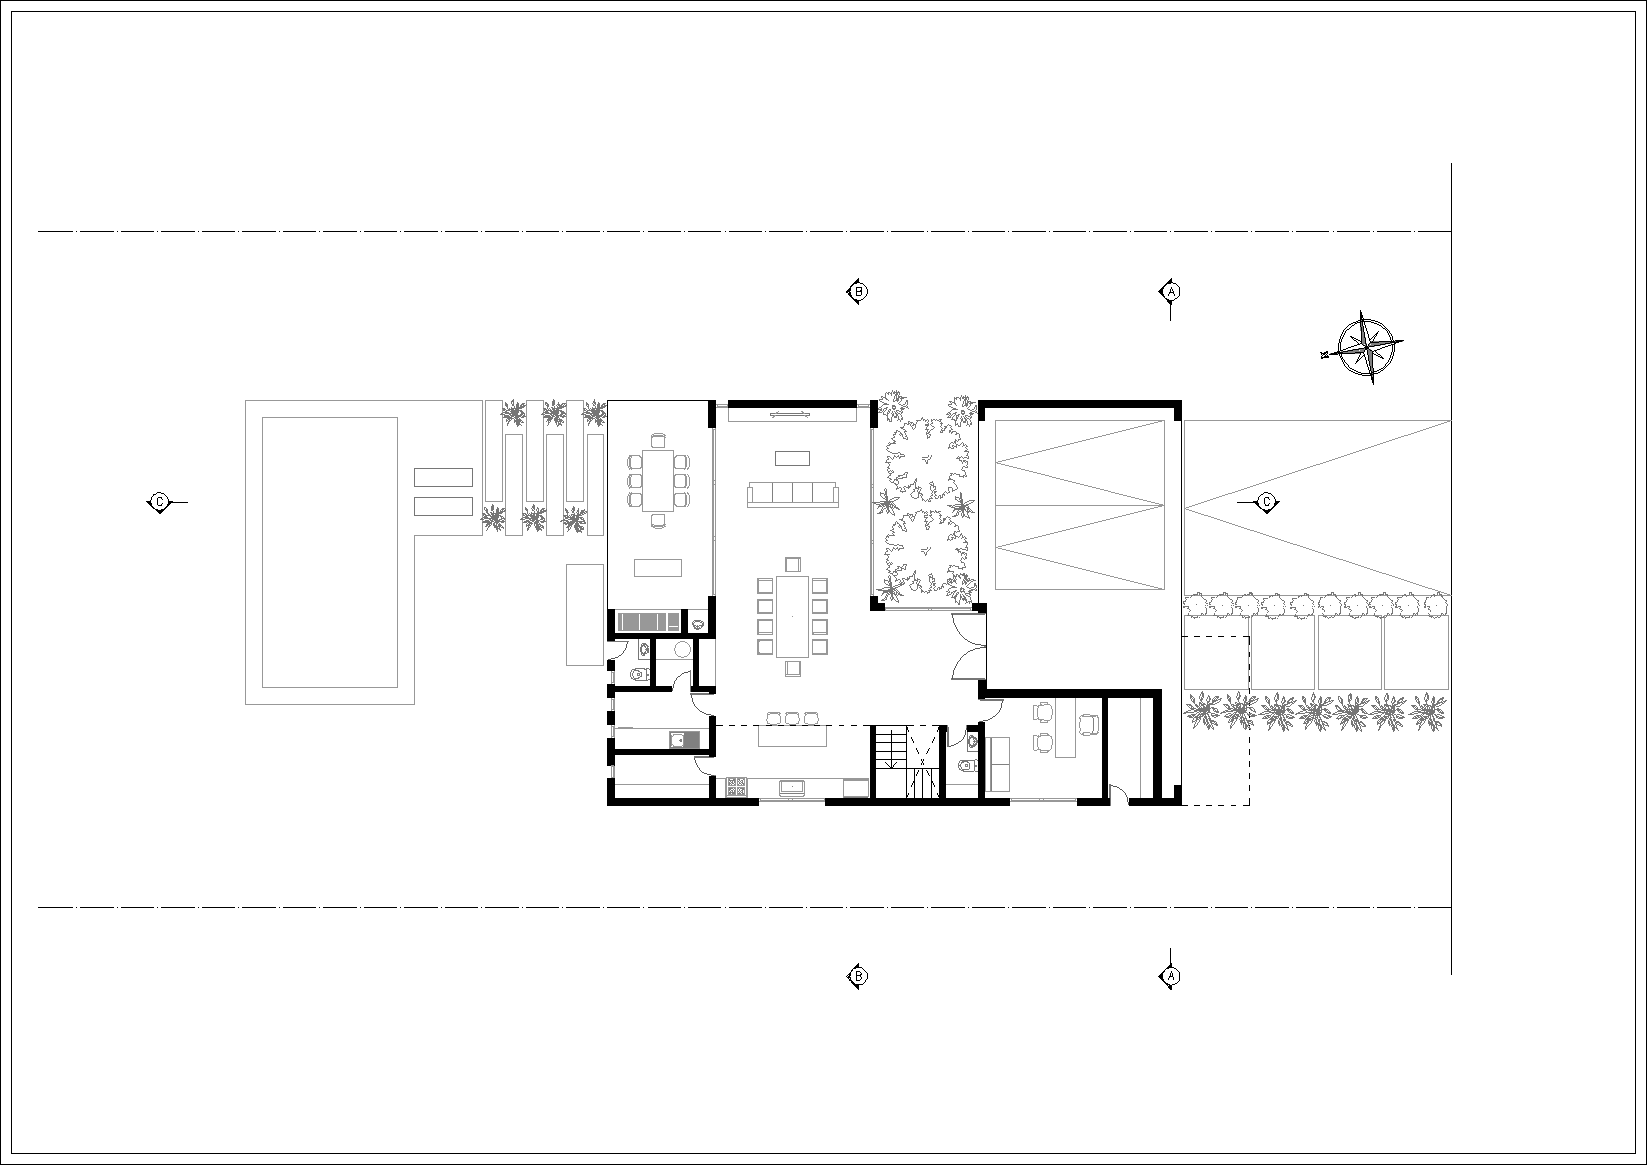
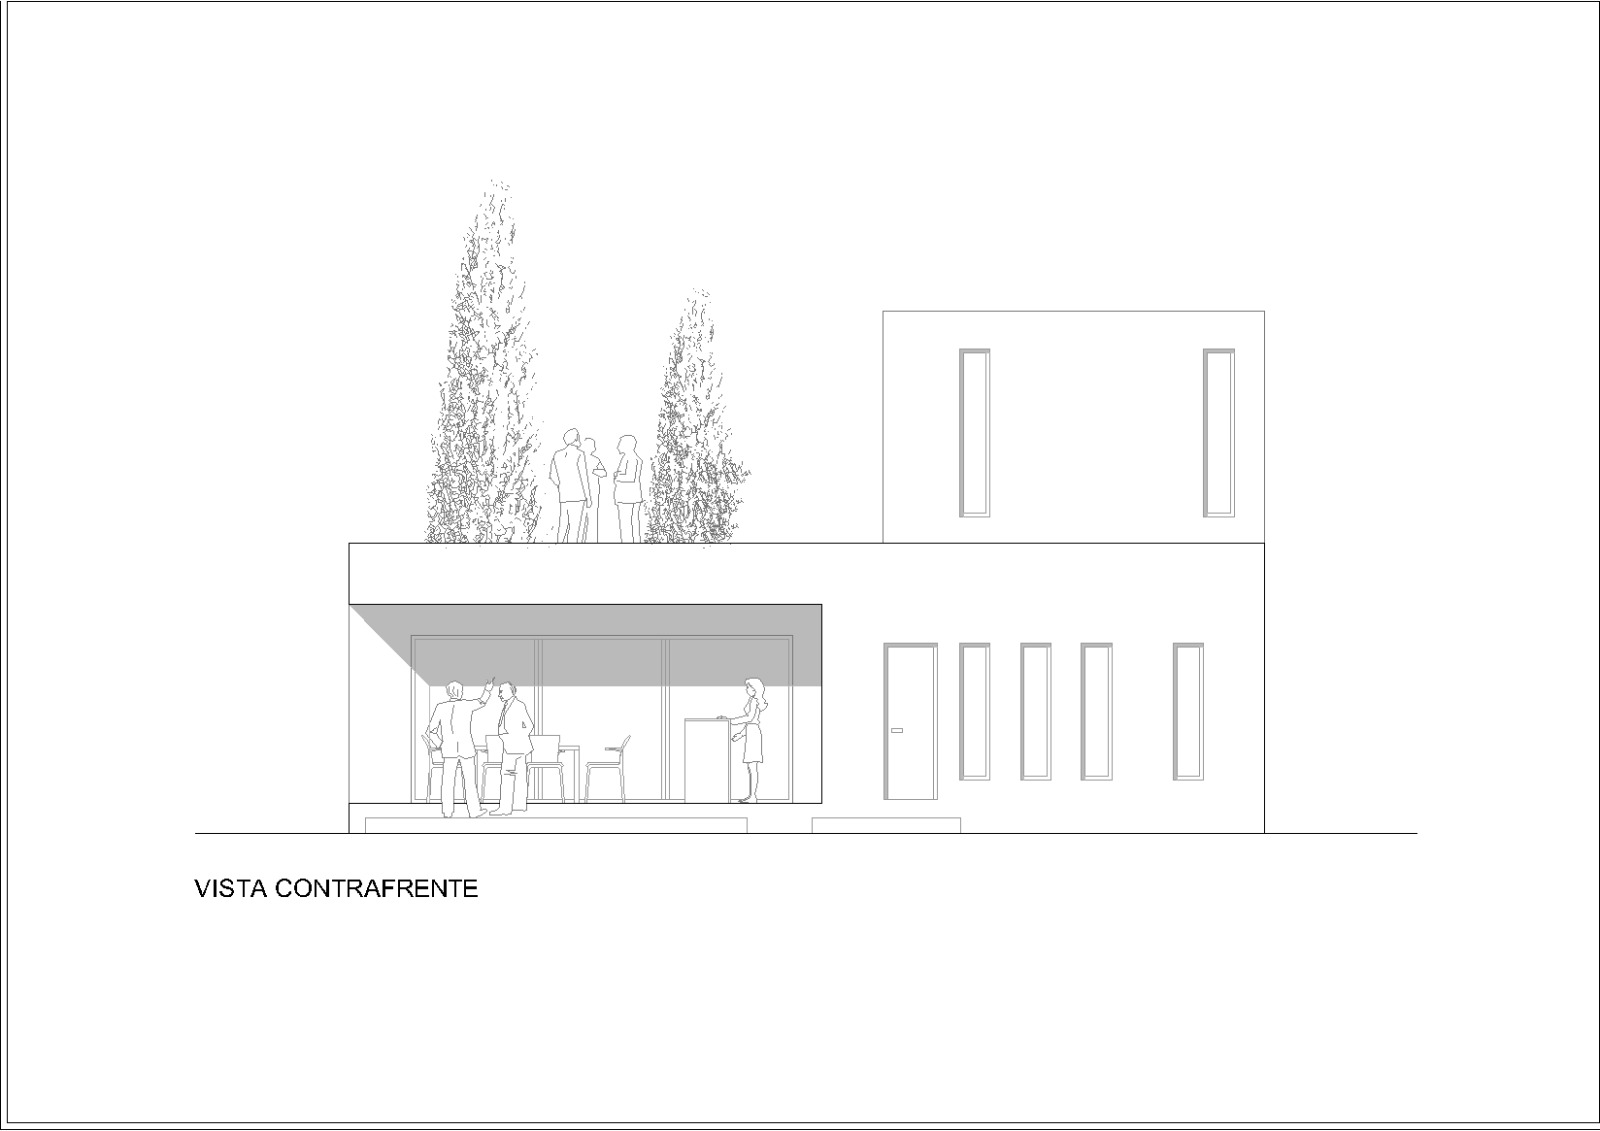
se agrego logica de siguiente y anterior en planos e imagenes del modal, cambio de orden en planos

diff --git a/src/components/Projects.tsx b/src/components/Projects.tsx
@@ -193,6 +193,52 @@ import motoqueroInteriorTaller from "@/assets/Proyectos/Motoquero/Motoquero-Inte
 import motoqueroInteriorTaller2 from "@/assets/Proyectos/Motoquero/Motoquero-Interior_Taller2.png";
 import motoqueroInteriorTaller3 from "@/assets/Proyectos/Motoquero/Motoquero-Interior_Taller3.png";
 import motoqueroInteriorTienda from "@/assets/Proyectos/Motoquero/Motoquero-Interior_Tienda de respuestos.png";
+import carlaPlantaBaja from "@/assets/Planos/Carla/Proyecto Carla-PlantaBaja.png";
+import carlaEntrepiso from "@/assets/Planos/Carla/Proyecto Carla-EntrePiso.png";
+import carlaCorteAA from "@/assets/Planos/Carla/Proyecto Carla-Corte A-A.png";
+import carlaCorteBB from "@/assets/Planos/Carla/Proyecto Carla-Corte B-B.png";
+import carlaVistaFrente from "@/assets/Planos/Carla/Proyecto Carla-Vista Frente.png";
+import carlaVistaContrafrente from "@/assets/Planos/Carla/Proyecto Carla-Vista Contrafrente.png";
+import coffeePlantaBaja from "@/assets/Planos/Coffee/Casa Coffee-Arq_PlantaBaja.png";
+import coffeePlantaAlta from "@/assets/Planos/Coffee/Casa Coffee-Arq_PlantaAlta.png";
+import coffeeCorteAA from "@/assets/Planos/Coffee/Casa Coffee-Corte A-A.png";
+import coffeeCorteBB from "@/assets/Planos/Coffee/Casa Coffee-Corte B-B.png";
+import coffeeVistaFrente from "@/assets/Planos/Coffee/Casa Coffee-Vista Frente.png";
+import coffeeVistaContrafrente from "@/assets/Planos/Coffee/Casa Coffee-Vista Contrafrente.png";
+import cygPlantaBaja from "@/assets/Planos/CyG/Casa CyG-Arq_PlantaBaja.png";
+import cygPlantaAlta from "@/assets/Planos/CyG/Casa CyG-Arq_PlantaAlta.png";
+import cygCorteAA from "@/assets/Planos/CyG/Casa CyG-Corte A-A.png";
+import cygCorteBB from "@/assets/Planos/CyG/Casa CyG-Corte B-B.png";
+import cygVistaFrente from "@/assets/Planos/CyG/Casa CyG-Vista Frente.png";
+import cygVistaContrafrente from "@/assets/Planos/CyG/Casa CyG-Vista Contrafrente.png";
+import limoneroPlantaBaja from "@/assets/Planos/Del Limonero/Casa del Limonero-Arq_PlantaBaja.png";
+import limoneroCorteAA from "@/assets/Planos/Del Limonero/Casa del Limonero-Corte A-A.png";
+import limoneroCorteBB from "@/assets/Planos/Del Limonero/Casa del Limonero-Corte B-B.png";
+import limoneroVistaFrente from "@/assets/Planos/Del Limonero/Casa del Limonero-Vista Frente.png";
+import limoneroVistaContrafrente from "@/assets/Planos/Del Limonero/Casa del Limonero-Vista Contrafrente.png";
+import intiPlantaBaja from "@/assets/Planos/Inti/Casa Inti-Arq_PlantaBaja.png";
+import intiCorteAA from "@/assets/Planos/Inti/Casa Inti-Corte A-A.png";
+import intiCorteBB from "@/assets/Planos/Inti/Casa Inti-Corte B-B.png";
+import intiVistaFrente from "@/assets/Planos/Inti/Casa Inti-Vista Frente.png";
+import intiVistaContrafrente from "@/assets/Planos/Inti/Casa Inti-Vista Contrafrente.png";
+import jorvalPlantaBaja from "@/assets/Planos/Jorval/Proyecto Jorval-Arq_PlantaBaja.png";
+import jorvalPlantaAlta from "@/assets/Planos/Jorval/Proyecto Jorval-Arq_PlantaAlta.png";
+import jorvalCorteAA from "@/assets/Planos/Jorval/Proyecto Jorval-Corte A-A.png";
+import jorvalCorteBB from "@/assets/Planos/Jorval/Proyecto Jorval-Corte B-B.png";
+import jorvalVistaFrente from "@/assets/Planos/Jorval/Proyecto Jorval-Vista Frente.png";
+import jorvalVistaLateral from "@/assets/Planos/Jorval/Proyecto Jorval - Vista Lateral.png";
+import scottPlantaBaja from "@/assets/Planos/Scott/Casa Scott-Arq_PlantaBaja.png";
+import scottPlantaAlta from "@/assets/Planos/Scott/Casa Scott-Arq_PlantaAlta.png";
+import scottCorteAA from "@/assets/Planos/Scott/Casa Scott- Corte A-A.png";
+import scottCorteBB from "@/assets/Planos/Scott/Casa Scott- Corte B-B.png";
+import scottVistaFrente from "@/assets/Planos/Scott/Casa Scott-Vista Frente.png";
+import scottVistaContrafrente from "@/assets/Planos/Scott/Casa Scott-Vista Contrafrente.png";
+import zPlantaBaja from "@/assets/Planos/Z/Proyecto Z-PlantaBaja.png";
+import zPlantaAlta from "@/assets/Planos/Z/Proyecto Z-PlantaAlta.png";
+import zCorteAA from "@/assets/Planos/Z/Proyecto Z-Corte A-A.png";
+import zCorteBB from "@/assets/Planos/Z/Proyecto Z-Corte B-B.png";
+import zVistaFrente from "@/assets/Planos/Z/Proyecto Z-Vista Frente.png";
+import zVistaContrafrente from "@/assets/Planos/Z/Proyecto Z-Vista Contrafrente.png";
 import { useTranslation } from "@/lib/i18n";
 import { casaProjects } from "@/components/project-data";
 
@@ -1247,27 +1293,73 @@ function ProjectModal({
   const [showPlans, setShowPlans] = useState(false);
   const [expandedPlanIndex, setExpandedPlanIndex] = useState<number | null>(null);
   const isPhaseFilterProject = project.id === "casa-pili" || project.id === "casa-bonzi";
-  const planImageModules = import.meta.glob("../assets/Planos/*/*.{png,jpg,jpeg}", {
-    eager: true,
-    import: "default",
-  }) as Record<string, string>;
-  const projectPlanFolderById: Record<string, string> = {
-    "proyecto-cyg": "CyG",
-    "proyecto-carla": "Carla",
-    "casa-coffee": "Coffee",
-    "casa-del-limonero": "Del Limonero",
-    "casa-inti": "Inti",
-    "proyecto-jorval": "Jorval",
-    "casa-scott": "Scott",
-    "proyecto-z": "Z",
+  const planImagesByProjectId: Record<string, string[]> = {
+    "proyecto-cyg": [
+      cygPlantaBaja,
+      cygPlantaAlta,
+      cygCorteAA,
+      cygCorteBB,
+      cygVistaFrente,
+      cygVistaContrafrente,
+    ],
+    "proyecto-carla": [
+      carlaPlantaBaja,
+      carlaEntrepiso,
+      carlaCorteAA,
+      carlaCorteBB,
+      carlaVistaFrente,
+      carlaVistaContrafrente,
+    ],
+    "casa-coffee": [
+      coffeePlantaBaja,
+      coffeePlantaAlta,
+      coffeeCorteAA,
+      coffeeCorteBB,
+      coffeeVistaFrente,
+      coffeeVistaContrafrente,
+    ],
+    "casa-del-limonero": [
+      limoneroPlantaBaja,
+      limoneroCorteAA,
+      limoneroCorteBB,
+      limoneroVistaFrente,
+      limoneroVistaContrafrente,
+    ],
+    "casa-inti": [
+      intiPlantaBaja,
+      intiCorteAA,
+      intiCorteBB,
+      intiVistaFrente,
+      intiVistaContrafrente,
+    ],
+    "proyecto-jorval": [
+      jorvalPlantaBaja,
+      jorvalPlantaAlta,
+      jorvalCorteAA,
+      jorvalCorteBB,
+      jorvalVistaFrente,
+      jorvalVistaLateral,
+    ],
+    "casa-scott": [
+      scottPlantaBaja,
+      scottPlantaAlta,
+      scottCorteAA,
+      scottCorteBB,
+      scottVistaFrente,
+      scottVistaContrafrente,
+    ],
+    "proyecto-z": [
+      zPlantaBaja,
+      zPlantaAlta,
+      zCorteAA,
+      zCorteBB,
+      zVistaFrente,
+      zVistaContrafrente,
+    ],
   };
-  const planImages = Object.entries(planImageModules)
-    .filter(([path]) => {
-      const folderName = projectPlanFolderById[project.id];
-      return folderName ? path.includes(`/Planos/${folderName}/`) : false;
-    })
-    .map(([, src]) => src);
-  const hasPlanImages = planImages.length > 0;
+
+  const orderedPlanImages = planImagesByProjectId[project.id] ?? [];
+  const hasPlanImages = orderedPlanImages.length > 0;
   const atmosphereButtons: Array<{ key: AtmosphereType; label: string }> = [
     { key: "todos", label: t.projects.atmospheres.todos },
     { key: "anochecer", label: t.projects.atmospheres.anochecer },
@@ -3094,8 +3186,10 @@ function ProjectModal({
   if (!activeItem) return null;
 
   if (expandedPlanIndex !== null) {
-    const expandedPlan = planImages[expandedPlanIndex];
+    const expandedPlan = orderedPlanImages[expandedPlanIndex];
     if (!expandedPlan) return null;
+    const hasPreviousPlan = expandedPlanIndex > 0;
+    const hasNextPlan = expandedPlanIndex < orderedPlanImages.length - 1;
     return (
       <div
         className="fixed inset-0 z-110 bg-brand-black/95 backdrop-blur-sm flex items-center justify-center p-4 md:p-12"
@@ -3113,6 +3207,28 @@ function ProjectModal({
           >
             {t.projects.modal.close}
           </button>
+          <div className="absolute inset-x-0 bottom-4 z-10 flex items-center justify-between px-4 md:px-6">
+            <button
+              type="button"
+              onClick={() => setExpandedPlanIndex((prev) => (prev !== null ? Math.max(0, prev - 1) : 0))}
+              disabled={!hasPreviousPlan}
+              aria-label={t.projects.pagination.previous}
+              className="inline-flex items-center justify-center h-11 min-w-11 rounded-none border border-white bg-white/90 px-3 text-[10px] uppercase tracking-[0.3em] text-brand-black transition hover:bg-white disabled:cursor-not-allowed disabled:opacity-50"
+            >
+              <ChevronLeft className="mr-1 h-4 w-4" />
+              {t.projects.pagination.previous}
+            </button>
+            <button
+              type="button"
+              onClick={() => setExpandedPlanIndex((prev) => (prev !== null ? Math.min(orderedPlanImages.length - 1, prev + 1) : 0))}
+              disabled={!hasNextPlan}
+              aria-label={t.projects.pagination.next}
+              className="inline-flex items-center justify-center h-11 min-w-11 rounded-none border border-white bg-white/90 px-3 text-[10px] uppercase tracking-[0.3em] text-brand-black transition hover:bg-white disabled:cursor-not-allowed disabled:opacity-50"
+            >
+              {t.projects.pagination.next}
+              <ChevronRight className="ml-1 h-4 w-4" />
+            </button>
+          </div>
           <img
             src={expandedPlan}
             alt={t.projects.modal.close}
@@ -3127,6 +3243,8 @@ function ProjectModal({
   if (expandedImageIndex !== null) {
     const expandedItem = reorderedGalleryItems[expandedImageIndex];
     if (!expandedItem) return null;
+    const hasPreviousExpandedImage = expandedImageIndex > 0;
+    const hasNextExpandedImage = expandedImageIndex < reorderedGalleryItems.length - 1;
     return (
       <div
         className="fixed inset-0 z-90 bg-brand-black/95 backdrop-blur-sm flex items-center justify-center p-4 md:p-12"
@@ -3144,6 +3262,28 @@ function ProjectModal({
           >
             {t.projects.modal.close}
           </button>
+          <div className="absolute inset-x-0 bottom-4 z-10 flex items-center justify-between px-4 md:px-6">
+            <button
+              type="button"
+              onClick={() => setExpandedImageIndex((prev) => (prev !== null ? Math.max(0, prev - 1) : 0))}
+              disabled={!hasPreviousExpandedImage}
+              aria-label={t.projects.pagination.previous}
+              className="inline-flex items-center justify-center h-11 min-w-11 rounded-none border border-white bg-white/90 px-3 text-[10px] uppercase tracking-[0.3em] text-brand-black transition hover:bg-white disabled:cursor-not-allowed disabled:opacity-50"
+            >
+              <ChevronLeft className="mr-1 h-4 w-4" />
+              {t.projects.pagination.previous}
+            </button>
+            <button
+              type="button"
+              onClick={() => setExpandedImageIndex((prev) => (prev !== null ? Math.min(reorderedGalleryItems.length - 1, prev + 1) : 0))}
+              disabled={!hasNextExpandedImage}
+              aria-label={t.projects.pagination.next}
+              className="inline-flex items-center justify-center h-11 min-w-11 rounded-none border border-white bg-white/90 px-3 text-[10px] uppercase tracking-[0.3em] text-brand-black transition hover:bg-white disabled:cursor-not-allowed disabled:opacity-50"
+            >
+              {t.projects.pagination.next}
+              <ChevronRight className="ml-1 h-4 w-4" />
+            </button>
+          </div>
           <img
             src={expandedItem.src}
             alt={expandedItem.label[language]}
@@ -3308,7 +3448,7 @@ function ProjectModal({
               <div className="mt-6">
                 {hasPlanImages ? (
                   <div className="grid gap-4 sm:grid-cols-2">
-                    {planImages.map((planSrc, index) => (
+                    {orderedPlanImages.map((planSrc, index) => (
                       <button
                         key={`${planSrc}-${index}`}
                         type="button"

diff --git a/src/components/Hero.tsx b/src/components/Hero.tsx
@@ -20,9 +20,20 @@ export function Hero() {
             ...sortProjectsByRequestedOrder(
               [
                 ...casaProjects.filter(
-                  (project) => project.id !== "casa-bonzi" && project.id !== "casa-rosales"
+                  (project) =>
+                    project.id !== "casa-pili" &&
+                    project.id !== "casa-bonzi" &&
+                    project.id !== "casa-sara" &&
+                    project.id !== "casa-rosales"
                 ),
-                ...projects.filter((project) => project.id !== "casa-rosales"),
+                ...projects.filter(
+                  (project) =>
+                    project.id !== "casa-pili" &&
+                    project.id !== "casa-bonzi" &&
+                    project.id !== "casa-sara" &&
+                    project.id !== "casa-rosales" &&
+                    project.id !== "proyecto-motoquero"
+                ),
               ]
             ).map((project) => project.image),
           ]}